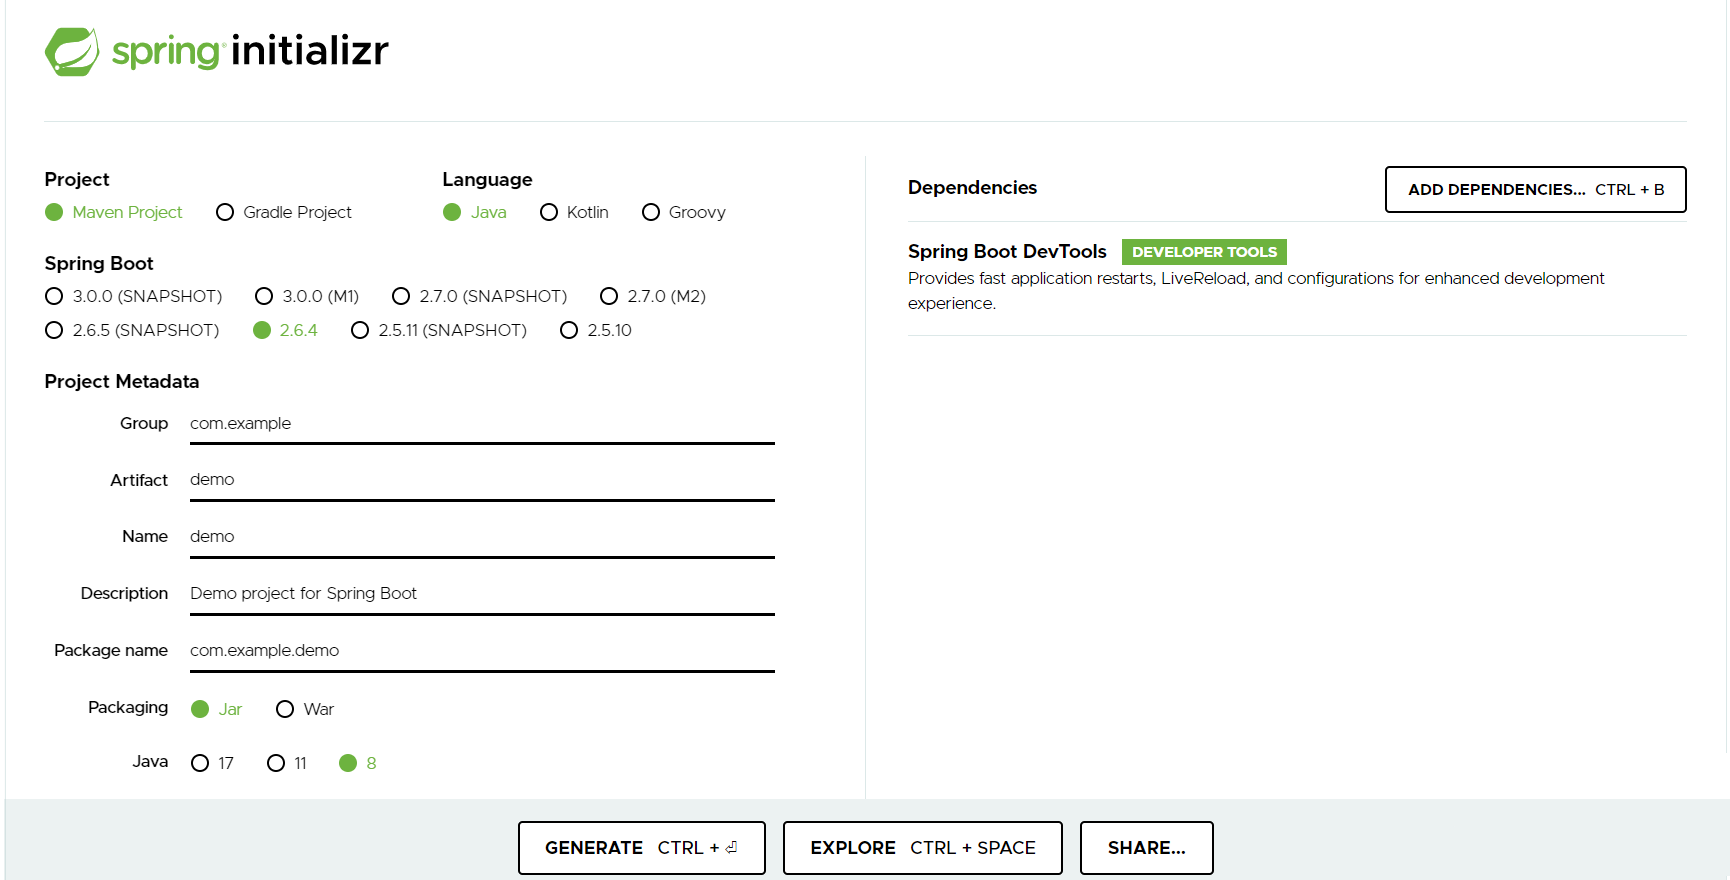
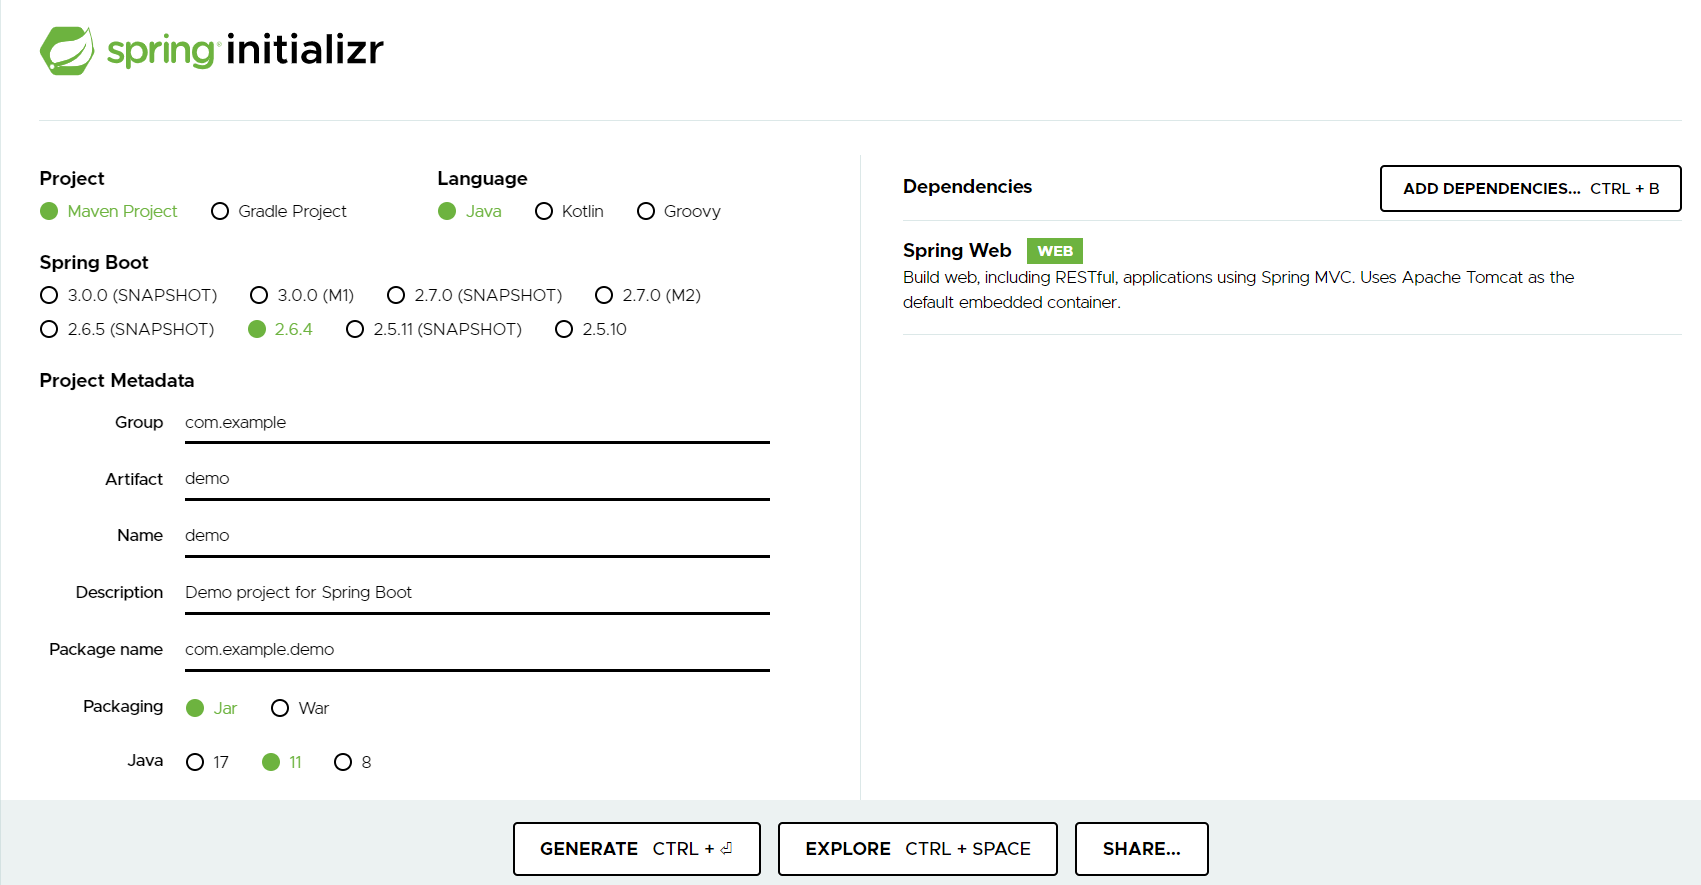
Update WEEK004

diff --git a/WEEK004-使用Spring项目脚手架/README.md b/WEEK004-使用Spring项目脚手架/README.md
@@ -1,12 +1,68 @@
 # WEEK004 - 使用 Spring 项目脚手架
 
+在我们的日常工作中，经常需要从头开始创建一个 Spring 项目，很多人的做法是，复制一份已有的项目，然后改目录名，改项目名，改包名，然后再把一些不要的文件删掉，只保留项目的基本框架。
+
+实际上，这样操作后保留下来的基本框架代码就是 **脚手架** 代码，有很多的工具可以帮我们自动生成脚手架代码。
+
 ## Spring Initializr
 
-https://start.spring.io/
+创建 Spring 项目最简单的方式就是使用官方提供的 [Spring Initializr](https://start.spring.io/)，下图是使用 Spring Initializr 生成项目脚手架代码的一个示例：
 
 ![](./images/spring-initializr.png)
 
+在这个页面中，我们需要填写这些信息：
+
+* 项目类型
+	* Maven
+	* Gradle
+* 语言类型
+	* Java
+	* Kotlin
+	* Groovy
+* Spring Boot 版本
+* 项目基本信息
+	* Group
+	* Artifact
+	* Name
+	* Description
+	* Package name
+	* Packaging
+	* Java
+* 项目依赖
+
+这里我选择的是 Maven 项目，语言类型为 Java，Spring Boot 版本为 2.6.4，项目基本信息为默认的 demo，打包方式为 jar，并添加了一个 Spring Web 依赖。生成的项目代码结构如下：
+
 ![](./images/demo-project-structure.png)
+
+按照 [Spring Boot 快速入门教程](https://spring.io/quickstart)，我们在 `DemoApplication.java` 里加几行代码：
+
+```
+package com.example.demo;
+
+import org.springframework.boot.SpringApplication;
+import org.springframework.boot.autoconfigure.SpringBootApplication;
+import org.springframework.web.bind.annotation.GetMapping;
+import org.springframework.web.bind.annotation.RequestParam;
+import org.springframework.web.bind.annotation.RestController;
+
+@SpringBootApplication
+@RestController
+public class DemoApplication {
+
+	public static void main(String[] args) {
+		SpringApplication.run(DemoApplication.class, args);
+	}
+
+	@GetMapping("/hello")
+	public String hello(@RequestParam(value = "name", defaultValue = "World") String name) {
+		return String.format("Hello %s!", name);
+	}
+}
+```
+
+至此一个简单的 Web 项目就完成了，然后执行 `./mvnw spring-boot:run` 命令，第一次执行可能比较慢，这是在下载程序所需要的依赖，等启动结束后打开浏览器，访问 `http://localhost:8080/hello` 页面，就可以看到我们熟悉的 `Hello World` 了。
+
+## STS
 
 https://spring.io/tools
 
@@ -18,3 +74,21 @@ https://github.com/spring-io/start.spring.io
 
 https://start.aliyun.com/
 
+## Maven Archetype
+
+https://maven.apache.org/guides/introduction/introduction-to-archetypes.html
+
+## JHipster
+
+https://www.jhipster.tech/
+
+## 参考
+
+1. [Spring Quickstart Guide](https://spring.io/quickstart)
+
+## 更多
+
+### 1. Spring Initializr 支持的依赖一览
+
+* DEVELOPER TOOLS
+	* Spring Native [Experimental]
